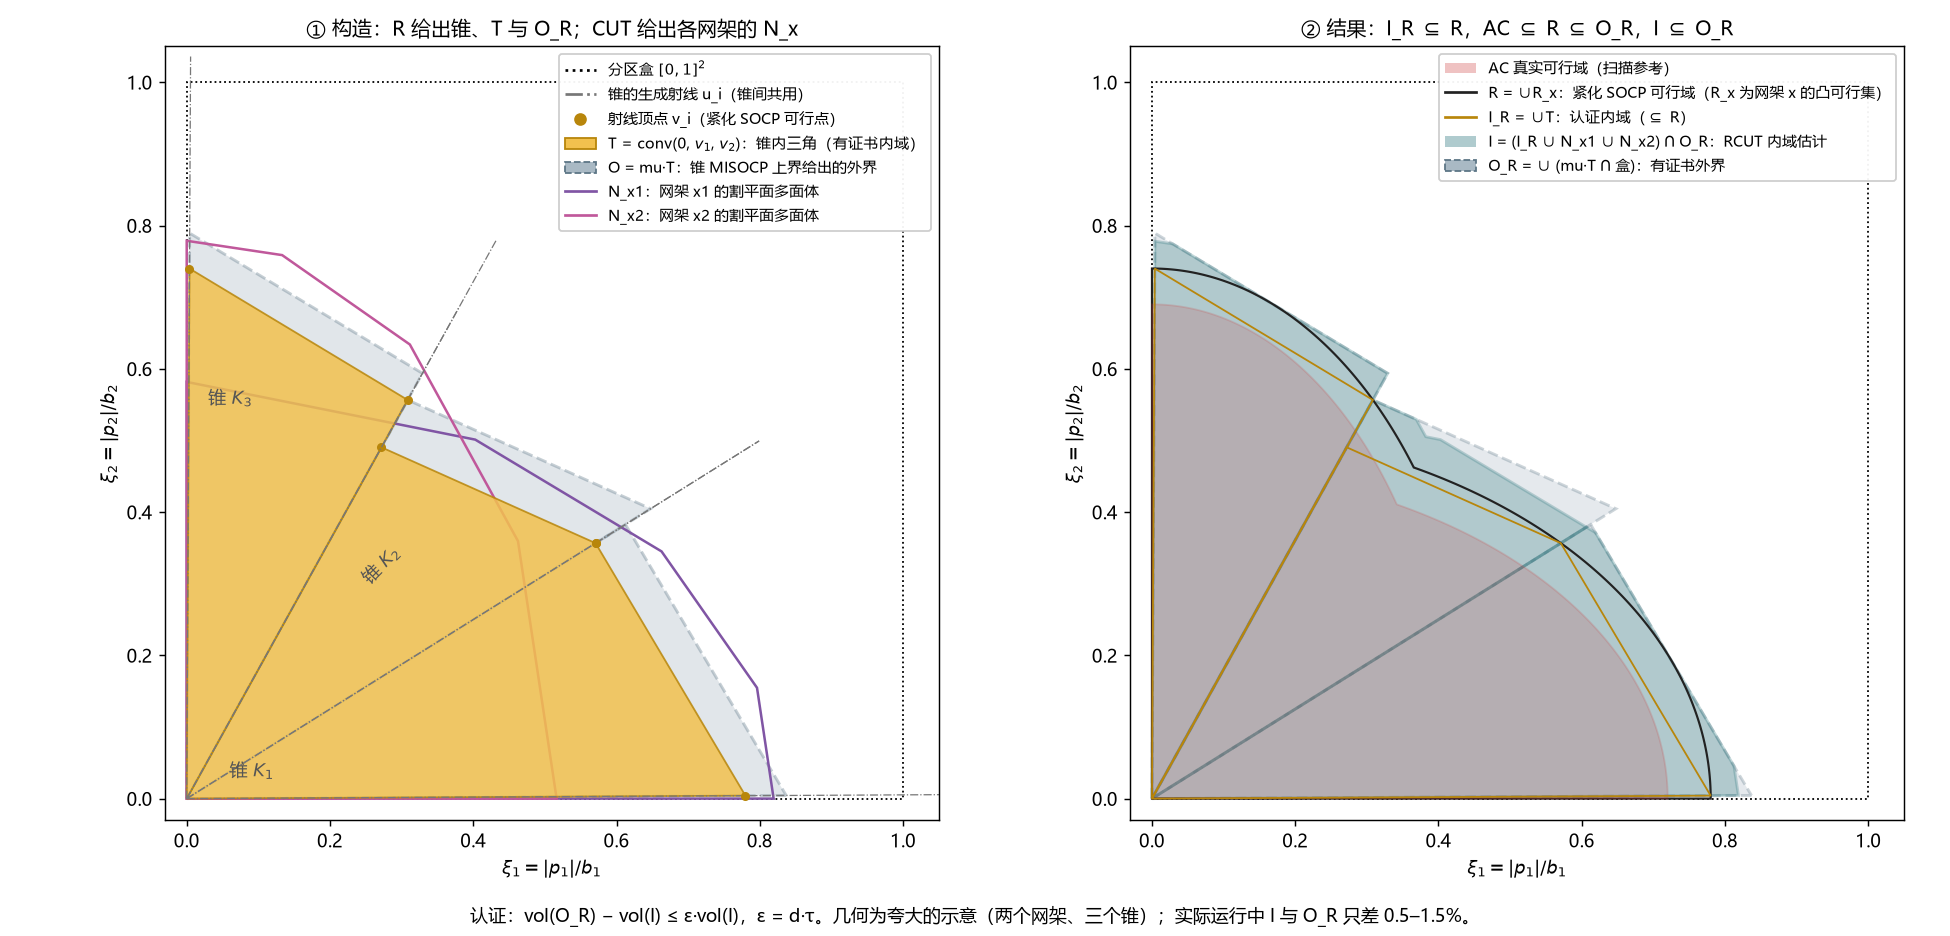
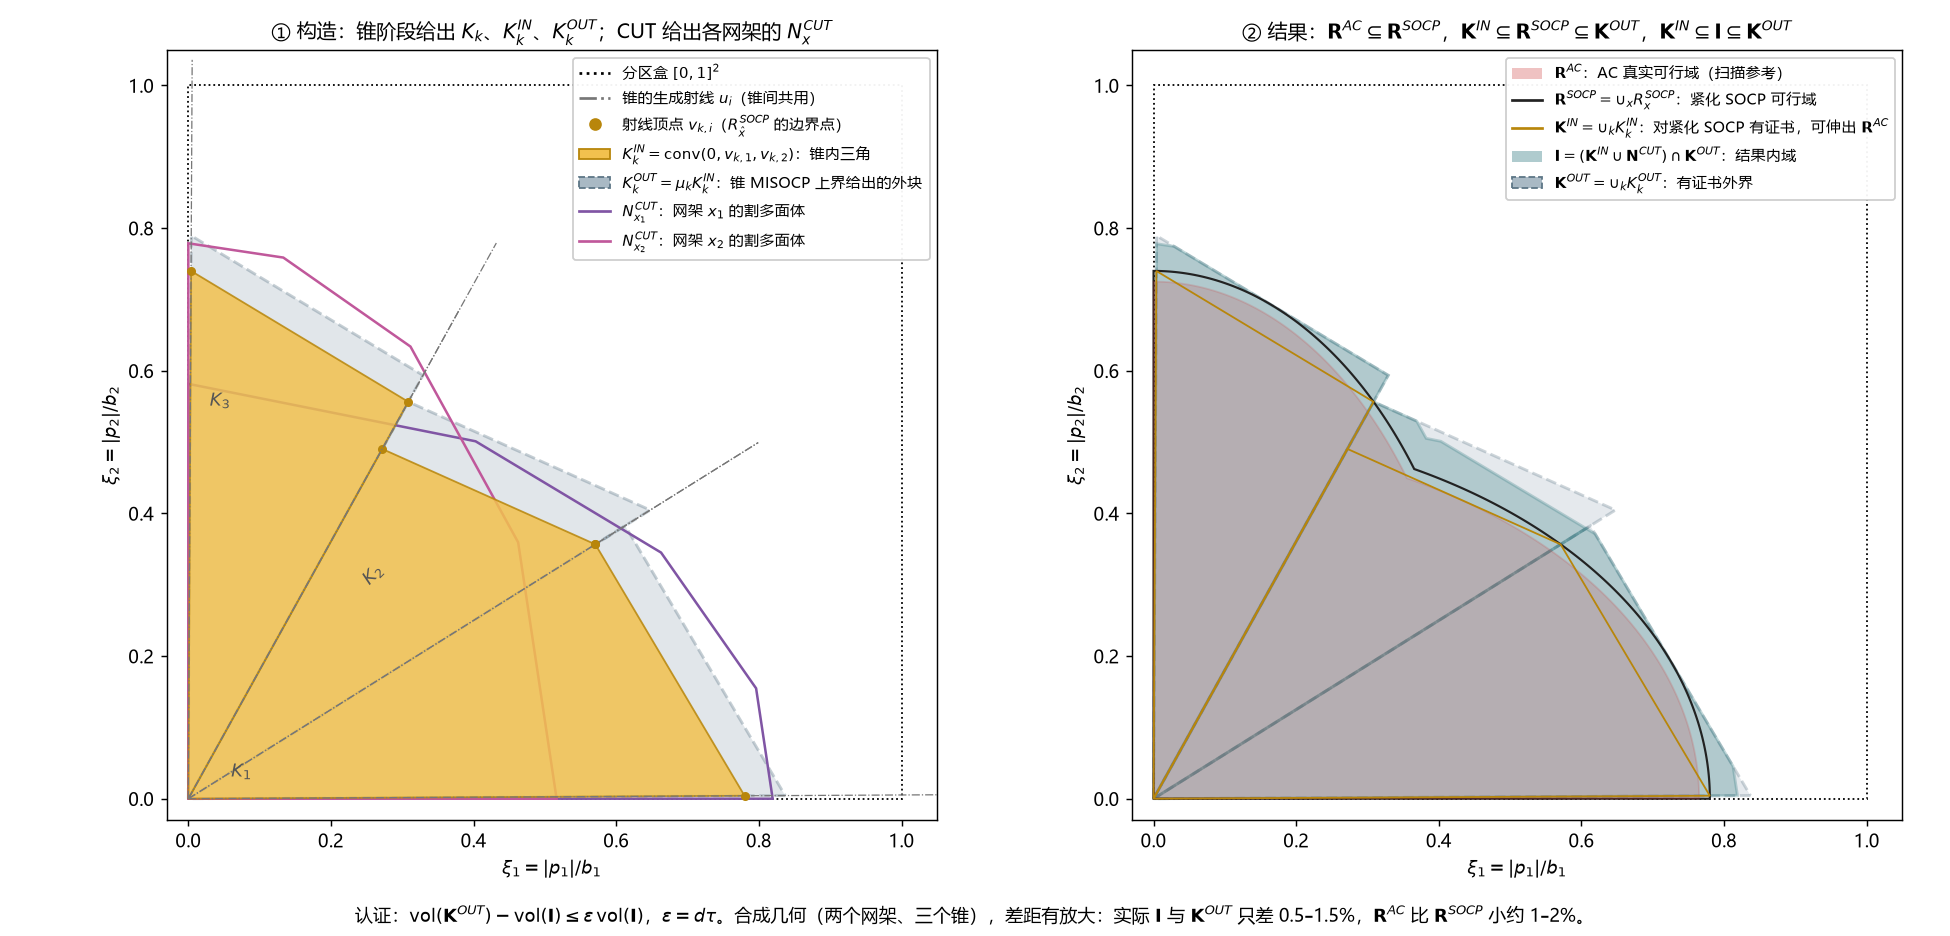
Adopt the K/N/R region notation in docs, comments and labels
K for cones, N for networks, R for true regions; superscripts carry the
meaning (AC, SOCP, IN, OUT, CUT), subscripts the index, unions are bold:
R^AC <= R^SOCP, K^IN <= R^SOCP <= K^OUT, R^SOCP_x <= N^CUT_x and
K^IN <= I <= K^OUT with I = (K^IN + N^CUT) & K^OUT. notation.md gains a
"regions and symbols" table with LaTeX forms, code names and the old
symbols; the figure is redrawn with the new symbols and a realistic
AC gap, and notes that K^IN is certified for the tightened SOCP model
only (in the 2D result 123 of the 158 extra cells of I lie in K^IN and
are SOCP-feasible). Code names are unchanged.

diff --git a/region.py b/region.py
@@ -1,16 +1,18 @@
 """符号分区规划域：径向锥夹逼的全局搜索（R）+ 主线割平面的逐网架构域（CUT），即方法 RCUT。
 
 坐标：符号分区 sign∈{±1}^d 内用非负幅值 u，真实功率 p=sign*u（kW）；几何在 xi=u/bounds∈[0,1]^d 中计算，
-bounds 为端口幅值上界。可行域 R=∪_x R_x，R_x 为网架 x 的 OBBT 紧化可行集（凸）。
+bounds 为端口幅值上界。符号（见 docs/notation.md「区域与符号」）：K 与锥相关、N 与网架相关、R 为真实可行域，
+上标为物理含义、下标为序号。紧化可行域 R^SOCP=∪_x R^SOCP_x，R^SOCP_x 为网架 x 的 OBBT 紧化可行集（凸），
+AC 可行域 R^AC ⊆ R^SOCP。
 
-R：方向用单纯锥 K=cone(u_1..u_d) 剖分。内域 T=conv(0, v_1..v_d)，v_i 为内域网架 x̂ 沿 u_i 的紧化射线顶点；
-x̂ 原点不可行时由原点可行的网架 y 覆盖近端，T ⊆ R_x̂ ∪ R_y ⊆ R。外界：Q=[v_1..v_d]，c=1ᵀQ⁻¹，x 自由锥
-MISOCP 的上界 μ̄ 给出 O={xi∈K: c@xi<=μ̄}=μ̄·T ⊇ R∩K。每次细分体积缺口 Δ=(μ̄^d-1)·vol(T) 最大的锥，
-ΣΔ<=ε·Σvol(T) 即认证。
-CUT：A 阶段（R 的目标放宽为 ε_A）出现的每个网架，从分区盒出发做主线割平面：SP 为 N_x 顶点评分，违反量 η
-最大的顶点由对偶 LP 取联合割（带该网架的 OBBT 盒与包络行）；连续 patience 次割的体积缩减比例 < threshold
-即停滞，N_x 当作该网架的可行域（外近似，不作内域认证）。之后续跑 R（A+），新出现的网架也先割。
-内域 I=(I_R ∪ ∪N_x)∩O_R；vol(O_R∩盒)-vol(I)<=ε·vol(I) 即认证。
+R：方向用单纯锥 K_k=cone(u_1..u_d) 剖分。锥内三角 K^IN_k=conv(0, v_{k,1..d})，v_{k,i} 为内域网架 x̂ 沿 u_i 的
+紧化射线顶点；x̂ 原点不可行时由原点可行的网架 y 覆盖近端，K^IN_k ⊆ R^SOCP_x̂ ∪ R^SOCP_y ⊆ R^SOCP。外界：
+Q=[v_1..v_d]，c=1ᵀQ⁻¹，网架不固定的锥 MISOCP 的上界 μ_k 给出 K^OUT_k={xi∈K_k: c@xi<=μ_k}=μ_k·K^IN_k ⊇ R^SOCP∩K_k。
+每次细分体积缺口 Δ_k=(μ_k^d-1)·vol(K^IN_k) 最大的锥，ΣΔ_k<=ε·Σvol(K^IN_k) 即认证。
+CUT：A 阶段（R 的目标放宽为 ε_A）出现的每个网架，从分区盒出发做主线割平面：SP 为割多面体 N^CUT_x 的顶点评分，
+违反量 η 最大的顶点由对偶 LP 取联合割（带该网架的 OBBT 盒与包络行）；连续 patience 次割的体积缩减比例 < threshold
+即停滞，N^CUT_x ⊇ R^SOCP_x 当作该网架的可行域（外近似，不作内域认证）。之后续跑 R（A+），新出现的网架也先割。
+结果内域 I=(K^IN ∪ N^CUT)∩K^OUT；vol(K^OUT)-vol(I)<=ε·vol(I) 即认证。
 """
 from concurrent.futures import ProcessPoolExecutor
 from copy import deepcopy
@@ -38,7 +40,7 @@ MIN_RADIUS = 1e-9        # 射线顶点半径下限（xi）；更小时 Q 奇异
 RAY_SECONDS = 30.        # 单次射线与原点 SP 的时限上限
 CUT_SECONDS = 30.        # 单个网架一次割循环的时限上限
 PASS_SHARE = .75         # 一轮 CUT 最多用分区剩余时间的比例，其余留给径向续跑
-CUT_ACCEPTED = ('stagnated', 'exact', 'empty')   # 计入内域的 N_x 状态（empty：N_x=∅，即分区内 R_x=∅）
+CUT_ACCEPTED = ('stagnated', 'exact', 'empty')   # 计入 N^CUT 的状态（empty：N^CUT_x=∅，即分区内 R^SOCP_x=∅）
 
 
 # ---- 凸多面体几何（xi 或 kW，同一坐标系内运算） -------------------------------------------------
@@ -208,7 +210,7 @@ def piece(vertices, U, halfspace):
 
 
 def sandwich(cones, sets, d, cache):
-    """内外测度（xi^d）：I=(I_R ∪ ∪sets)∩O_R，O=O_R∩盒。cones 为叶锥几何 (U, V, halfspace)，sets 为
+    """内外测度（xi^d）：I=(K^IN ∪ ∪sets)∩K^OUT 与 K^OUT。cones 为叶锥几何 (U, V, halfspace)，sets 为
     [(版本键, 顶点)]。二维用 shapely 并集；三维按锥分解（叶锥内部互不相交），每锥求并集体积并按
     (锥几何, 相交集合的版本) 缓存；并集数值失败时只计 T（内域只会低估，间隙只会偏大）。"""
     # 1. 各叶锥的外域 O∩盒 与内三角形 T
@@ -247,7 +249,7 @@ class Cone:
     verts: np.ndarray                # (d,d)，第 i 行 v_i=rho_x̂(u_i)·u_i（xi）
     cover: tuple | None = None       # 近端覆盖网架 y；x̂ 原点可行时为 None
     inherited: tuple | None = None   # 父锥外界 (c, mu)
-    mu: float = np.inf               # 外界因子 μ̄
+    mu: float = np.inf               # 外界因子 μ_k
     final: dict | None = None        # 最后一轮锥 MISOCP（细分用解点与方案）
     status: str = 'pending'          # pending / bounded / unresolved
 
@@ -420,7 +422,7 @@ class Radial:
         return self.new_cone(tuple(range(self.d)), inner)
 
     def solve(self, cone):
-        """锥 MISOCP：锥约束 Q⁻¹xi>=0（行归一化）、分区盒，max c@xi；μ̄=ObjBound，不可行时取 1。"""
+        """锥 MISOCP：锥约束 Q⁻¹xi>=0（行归一化）、分区盒，max c@xi；μ_k=ObjBound，不可行时取 1。"""
         rows = np.linalg.inv(cone.verts.T)
         answer = self.misocp(cone.c, rows/np.linalg.norm(rows, axis=1, keepdims=True))
         cone.mu = 1. if answer['status'] == GRB.INFEASIBLE else answer['bound']
@@ -464,7 +466,7 @@ class Radial:
         return None
 
     def delta(self, cone):
-        """体积缺口 Δ=(μ̄^d-1)·vol(T)（xi^d）：未求解的锥取父锥外界在本锥生成方向上的最大放大倍数，均无为 inf。"""
+        """体积缺口 Δ_k=(μ_k^d-1)·vol(K^IN_k)（xi^d）：未求解的锥取父锥外界在本锥生成方向上的最大放大倍数，均无为 inf。"""
         halfspace = cone.halfspace()
         if halfspace is None:
             return np.inf
@@ -551,8 +553,8 @@ class CutSlice(Exception):
 
 
 class Cutting:
-    """逐网架割平面构域；分区内的联合割共享：新网架的 N_x 先被已有割裁剪，新割也裁剪其他网架的 N_x
-    （割对全部可行点有效，N_x 仍包含 R_x）。"""
+    """逐网架割平面构域；分区内的联合割共享：新网架的 N^CUT_x 先被已有割裁剪，新割也裁剪其他网架的 N^CUT_x
+    （割对全部可行点有效，N^CUT_x 仍包含 R^SOCP_x）。"""
 
     def __init__(self, radial):
         self.radial, self.settings, self.monitor = radial, radial.settings, radial.monitor
@@ -565,7 +567,7 @@ class Cutting:
         return vertices
 
     def row(self, x):
-        """网架面板的一行（kW 幅值）：外域 N_x；停滞或精确时 N_x 也计入内域。"""
+        """网架面板的一行（kW 幅值）：外域 N^CUT_x；停滞或精确时 N^CUT_x 也计入 I。"""
         state, radial = self.networks[x], self.radial
         vertices = state['vertices']*radial.bounds
         return dict(x=x, choice=radial.network.decode_plan(np.asarray(x)),
@@ -574,7 +576,7 @@ class Cutting:
                     status=state['status'])
 
     def sets(self):
-        """计入内域的 N_x：[(版本键, 顶点)]（xi）。"""
+        """计入 N^CUT 的 N^CUT_x：[(版本键, 顶点)]（xi）。"""
         return [((x, state['version']), state['vertices']) for x, state in self.networks.items()
                 if state['status'] in CUT_ACCEPTED and len(state['vertices']) > self.radial.d]
 
@@ -605,7 +607,7 @@ class Cutting:
                 raise CutSlice()
             return radial.remaining(min(rest, SP_TIME_LIMIT['socp']))
 
-        # 1. N_x 初值：分区盒被已有联合割裁剪；先记录初值，回放时第一刀也有割前的 N_x
+        # 1. N^CUT_x 初值：分区盒被已有联合割裁剪；先记录初值，回放时第一刀也有割前的 N^CUT_x
         state = self.networks[x] = dict(vertices=self.clip(box_vertices(d), x, self.cuts), status='slice', version=0)
         monitor._emit('network', phase='网架切割', active_scheme=label, schemes={label: self.row(x)})
         cache, powers, applied, failed, history, fresh = {}, [], set(), set(), [], []
@@ -630,7 +632,7 @@ class Cutting:
                 if not len(state['vertices']):
                     state['status'] = 'empty'
                     break
-                # 2. SP 评分 N_x 的每个顶点（kW 最大坐标差 point_tol 内视为同一点）
+                # 2. SP 评分 N^CUT_x 的每个顶点（kW 最大坐标差 point_tol 内视为同一点）
                 indices = [register_power(point*bounds, powers, settings.point_tol) for point in state['vertices']]
                 kinds = {index: score(index) for index in indices}
                 pending = [index for index, kind in kinds.items() if kind == 'pending']
@@ -638,7 +640,7 @@ class Cutting:
                     values = set(kinds.values())
                     state['status'] = 'failed' if 'failed' in values else 'point_resolution' if 'applied' in values else 'exact'
                     break
-                # 3. 违反量最大的顶点取联合割（锥支撑平面 LP 的对偶），裁剪 N_x
+                # 3. 违反量最大的顶点取联合割（锥支撑平面 LP 的对偶），裁剪 N^CUT_x
                 index = max(pending, key=lambda i: (cache[i]['eta'], float(powers[i].sum()), tuple(powers[i])))
                 limit = left()
                 try:
@@ -664,7 +666,7 @@ class Cutting:
                     break
         except (CutSlice, TimeoutError):
             radial.remaining(np.inf)
-        # 5. 新割裁剪其他网架的 N_x，记录本网架终态
+        # 5. 新割裁剪其他网架的 N^CUT_x，记录本网架终态
         self.cuts.extend(fresh)
         rows = {}
         for y, other in self.networks.items():
@@ -687,7 +689,7 @@ def build_partition(network, sign, budget, monitor, settings):
     monitor._emit('phase_start', phase='径向搜索', status='running', cones={}, schemes={}, cut_history={})
 
     def certified():
-        """RB 判据：vol(O_R∩盒)-vol(I)<=ε·vol(I)，I=(I_R ∪ ∪N_x)∩O_R。"""
+        """夹逼判据：vol(K^OUT)-vol(I)<=ε·vol(I)，I=(K^IN ∪ N^CUT)∩K^OUT。"""
         inner, outer = sandwich(radial.geometry(), cutting.sets(), d, cache)
         return inner > 0. and outer-inner <= epsilon*inner
 
@@ -708,7 +710,7 @@ def build_partition(network, sign, budget, monitor, settings):
     except RegionTimeout:
         status = 'time_limit'
 
-    # 5. 汇总：内域为锥三角形与按锥裁到 O_R 的 N_x，外域为 O_R∩盒；尚无锥时外域为分区盒（kW 幅值）
+    # 5. 汇总：I 为各 K^IN_k 与按锥裁到 K^OUT_k 的 N^CUT_x，外域为 K^OUT；尚无锥时外域为分区盒（kW 幅值）
     inner, outer = sandwich(radial.geometry(), cutting.sets(), d, cache)
     rows = dict(inner=[], outer=[] if radial.cones else [box_vertices(d)])
     for U, V, halfspace in radial.geometry():

diff --git a/monitor.py b/monitor.py
@@ -497,7 +497,7 @@ class NativeWindow:
         ttk.Label(point_bar, text='坐标固定于分区盒').pack(side='right', padx=8)
         body = ttk.Panedwindow(self.root, orient='horizontal')
         body.pack(fill='both', expand=True, padx=8, pady=6)
-        left, right = ttk.Frame(body), ttk.LabelFrame(body, text="B  网架 · N_x 灰色（停滞后计入内域，绿色）/ 紫色割")
+        left, right = ttk.Frame(body), ttk.LabelFrame(body, text="B  网架 · N^CUT_x 灰色（停滞后计入 I，绿色）/ 紫色割")
         body.add(left, weight=1)
         body.add(right, weight=1)
         self.axes, self.canvases = {}, {}
@@ -643,7 +643,7 @@ class NativeWindow:
         return [corners*np.array([1 if s == '+' else -1 for s in label]) for label in labels]
 
     def _outer_polygons(self, state):
-        """外包络 O_R∩盒：各锥外域；尚无锥的分区取分区盒。"""
+        """外界 K^OUT：各锥外块 K^OUT_k；尚无锥的分区取分区盒。"""
         cones = {key: row for key, row in state.get('cones', {}).items() if row}
         started = {key.split(':')[0] for key in cones}
         return ([row['outer'] for row in cones.values()]
@@ -877,7 +877,7 @@ class NativeWindow:
             _draw(ax, self._removed(state, scheme), color=CUT, fill=True, alpha=.22)
 
     def _regions(self, ax, state, partition, *, linewidth=1., detail=True):
-        """外包络 O_R∩盒 与内域：二维为并集（内域再与外包络取交），三维为各锥远端面片与网架内域。
+        """外界 K^OUT 与结果内域 I：二维为并集（内域再与外包络取交），三维为各锥远端面片与网架内域。
         detail=False（总览）只画外包络。"""
         d = len(state['bounds'])
         outer = self._in_partition(self._outer_polygons(state), partition)
@@ -912,8 +912,8 @@ class NativeWindow:
         cuts = state.get('cut_history', {})
         if cuts:
             self._draw_cuts(ax, state, next(reversed(cuts.values()))['scheme'], history=False)
-        handles = [Line2D([], [], color=OUTER, ls='--', label=f'分区 {partition} 外包络 O_R' if partition else '外包络 O_R'),
-                   Line2D([], [], color=INNER, label='内域 I')]
+        handles = [Line2D([], [], color=OUTER, ls='--', label=f'分区 {partition} 外界 K^OUT' if partition else '外界 K^OUT'),
+                   Line2D([], [], color=INNER, label='结果内域 I')]
         handles.extend(self._markers(ax, state, partition=partition))
         ax.legend(handles=handles, loc='lower left', bbox_to_anchor=(-.08, 1.02),
                   ncol=3, frameon=False, fontsize=7, columnspacing=.8, handlelength=1.5)
